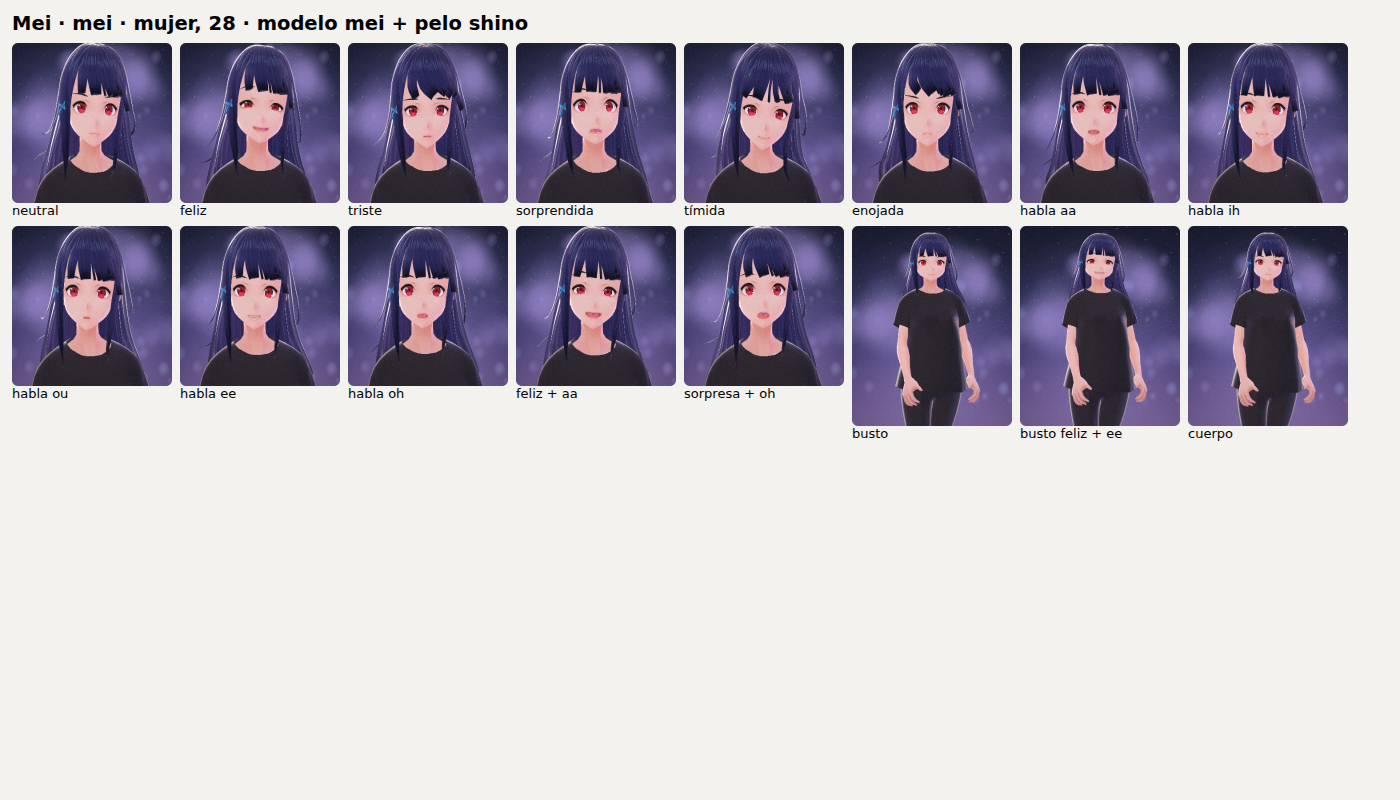
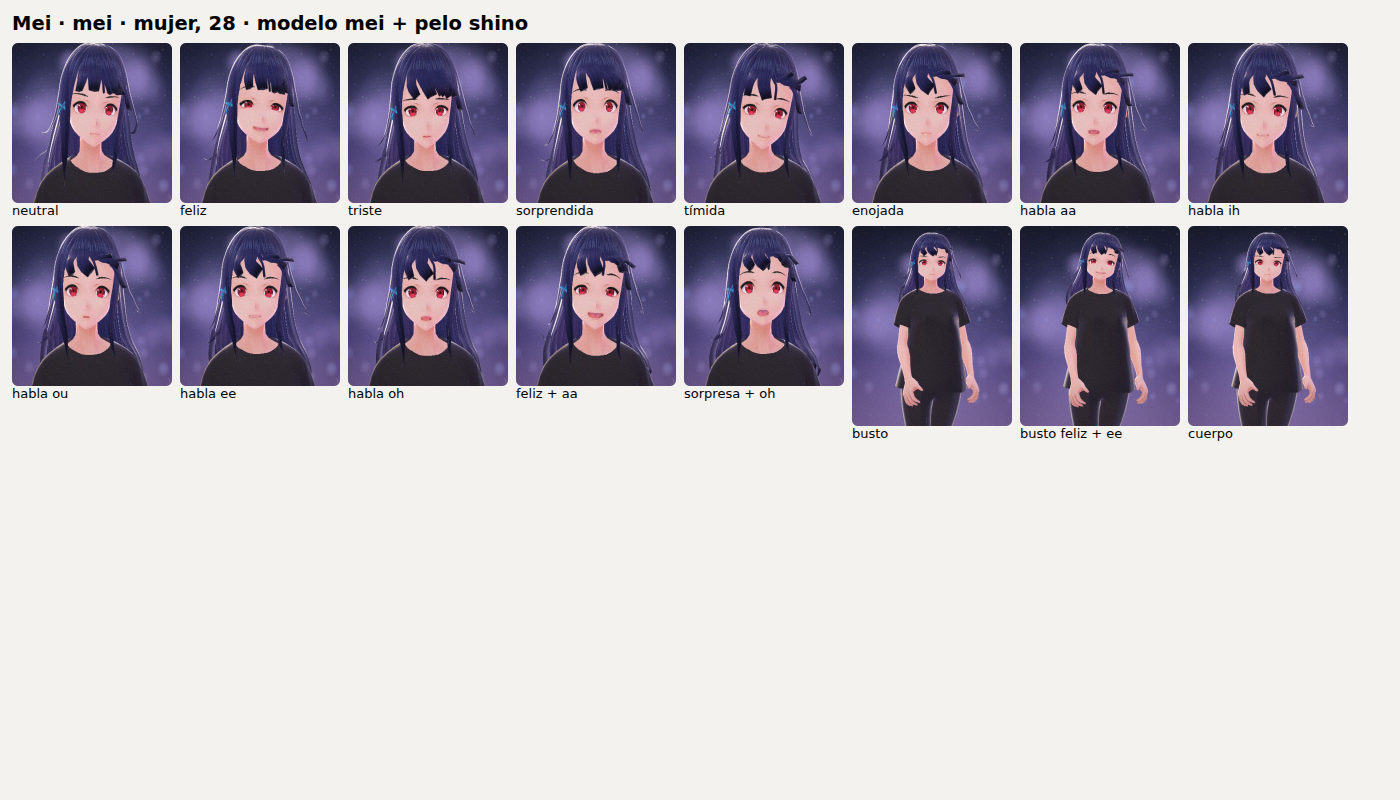
WP-5: second round of engine fixes
- Glasses on the face plane (no sliding when the head tilts); square glasses
  as rounded rectangles; headphone cups at ear height.
- Per-hairstyle fit factor for borrowed hair; QA mode resets hair physics.
- Catalog: body x hairstyle conflict rule (hairAllowed), used by the creator,
  random looks and saved-look normalization.

Claude-Session: https://claude.ai/code/session_0188cjAJLeq8GTW6oDs1W4kc

diff --git a/avatar-stage/stage.html b/avatar-stage/stage.html
@@ -605,7 +605,9 @@ function faceWidth(vrm) {
  * donante sigue a los huesos de este personaje (copiamos la pose cada fotograma)
  * y conserva su propia física.
  */
+// Algunos peinados quedan más atrás en caras ajenas (las cejas asoman por el flequillo): más margen.
 const HAIR_FIT = 1.04;
+const HAIR_FIT_BY = { vita: 1.09, fumiriya: 1.08, hair_m: 1.08, hair_f: 1.07, victoria: 1.06, noir: 1.06 };
 function attachHair(target, donor) {
   donor.scene.traverse((o) => { if (o.isMesh) o.visible = isHairMesh(o); });
   target.scene.traverse((o) => { if (o.isMesh && isHairMesh(o)) o.visible = false; });
@@ -620,7 +622,7 @@ function attachHair(target, donor) {
   const ratio = tw && dw ? tw / dw : 1;
   // un pelo prestado queda unos milímetros más atrás que el propio: un 4 % más grande cubre la
   // frente (sin cejas por delante del flequillo) y no deja huecos en la coronilla (QA, WP-5)
-  current.headScale = (ratio > 0.86 && ratio < 1.16 ? ratio : 1) * HAIR_FIT;
+  current.headScale = (ratio > 0.86 && ratio < 1.16 ? ratio : 1) * (HAIR_FIT_BY[current.look?.hair] ?? HAIR_FIT);
   current.hairPairs = pairs;
 }
 
@@ -818,26 +820,41 @@ function buildAccessories(look) {
     const round = has('glasses_round');
     const sun = has('sunglasses');
     const frame = mat(sun ? '#141218' : '#2b2733', 0.6, 0.3);
+    // montura rectangular de esquinas redondeadas (antes un anillo de 4 lados: en 3/4 se veía torcida)
+    const rrect = (w, h, rad) => {
+      const sh = new THREE.Shape();
+      sh.moveTo(-w / 2 + rad, -h / 2); sh.lineTo(w / 2 - rad, -h / 2); sh.quadraticCurveTo(w / 2, -h / 2, w / 2, -h / 2 + rad);
+      sh.lineTo(w / 2, h / 2 - rad); sh.quadraticCurveTo(w / 2, h / 2, w / 2 - rad, h / 2); sh.lineTo(-w / 2 + rad, h / 2);
+      sh.quadraticCurveTo(-w / 2, h / 2, -w / 2, h / 2 - rad); sh.lineTo(-w / 2, -h / 2 + rad); sh.quadraticCurveTo(-w / 2, -h / 2, -w / 2 + rad, -h / 2);
+      return sh;
+    };
     for (const sx of [-1, 1]) {
-      const geo = round ? new THREE.TorusGeometry(r, r * 0.09, 10, 40) : new THREE.TorusGeometry(r, r * (sun ? 0.13 : 0.1), 6, 4);
-      const ring = new THREE.Mesh(geo, frame);
-      if (!round) { ring.rotation.z = Math.PI / 4; ring.scale.set(sun ? 1.25 : 1.15, sun ? 0.86 : 0.8, 1); }
+      let ring, lens;
+      if (round) {
+        ring = new THREE.Mesh(new THREE.TorusGeometry(r, r * 0.09, 10, 40), frame);
+        lens = new THREE.Mesh(new THREE.CircleGeometry(r * 0.96, 32), null);
+      } else {
+        const w = r * 2.15, h = r * 1.55, t = r * 0.16;
+        const outer = rrect(w, h, r * 0.42);
+        outer.holes.push(rrect(w - t * 2, h - t * 2, r * 0.3));
+        ring = new THREE.Mesh(new THREE.ExtrudeGeometry(outer, { depth: r * 0.06, bevelEnabled: false, curveSegments: 6 }), frame);
+        lens = new THREE.Mesh(new THREE.ShapeGeometry(rrect(w - t * 2, h - t * 2, r * 0.3), 6), null);
+      }
+      lens.material = new THREE.MeshStandardMaterial({ color: sun ? 0x1a1820 : 0xffffff, transparent: true, opacity: sun ? 0.86 : 0.12, roughness: 0.05, metalness: sun ? 0.4 : 0 });
       ring.position.set(sx * e * 0.5, 0, 0);
-      gl.add(ring);
-      const lens = new THREE.Mesh(new THREE.CircleGeometry(r * 0.96, 32), new THREE.MeshStandardMaterial({ color: sun ? 0x1a1820 : 0xffffff, transparent: true, opacity: sun ? 0.86 : 0.12, roughness: 0.05, metalness: sun ? 0.4 : 0 }));
-      if (!round) lens.scale.set(sun ? 1.2 : 1.1, sun ? 0.82 : 0.75, 1);
       lens.position.copy(ring.position);
-      gl.add(lens);
+      gl.add(ring, lens);
     }
     const bridge = new THREE.Mesh(new THREE.CylinderGeometry(r * 0.06, r * 0.06, e * 0.2, 8), frame);
     bridge.rotation.z = Math.PI / 2; gl.add(bridge);
     overHair(gl);
-    put(gl, W(0, eyes.y + 0.003, front + e * 0.3));
+    // pegadas al plano de la cara: si flotan delante, al inclinar la cabeza se deslizan sobre los ojos
+    put(gl, W(0, eyes.y + 0.003, front + e * 0.08));
   }
   if (has('monocle')) {
     const gold = mat('#D4AF37', 0.85, 0.25);
     const r = e * 0.5;
-    const m1 = put(new THREE.Mesh(new THREE.TorusGeometry(r, r * 0.08, 10, 40), gold), W(-e * 0.5, eyes.y, front + e * 0.3));
+    const m1 = put(new THREE.Mesh(new THREE.TorusGeometry(r, r * 0.08, 10, 40), gold), W(-e * 0.5, eyes.y, front + e * 0.08));
     const lens = put(new THREE.Mesh(new THREE.CircleGeometry(r * 0.95, 32), new THREE.MeshStandardMaterial({ color: 0xffffff, transparent: true, opacity: 0.12 })), m1.position.clone());
     overHair(m1); overHair(lens);
     const chain = new THREE.Mesh(new THREE.CylinderGeometry(e * 0.012, e * 0.012, e * 1.6, 6), gold);
@@ -947,9 +964,10 @@ function buildAccessories(look) {
     // las copas van sobre las orejas (ancho de la cara), no al ancho del pelo: si no, flotan
     const r = halfW * 1.12;
     const band = new THREE.Mesh(new THREE.TorusGeometry(r, e * 0.13, 10, 48, Math.PI), mat(0x2f2b38, 0.4));
-    band.scale.set(1, (hairTop + e * 0.12 - (eyes.y - e * 0.3)) / r, 1);
-    put(band, W(0, eyes.y - e * 0.3, eyes.z - e * 0.5));
-    for (const sx of [-1, 1]) put(new THREE.Mesh(new THREE.CylinderGeometry(e * 0.5, e * 0.5, e * 0.36, 24), mat(col('headphones'), 0.2)), W(sx * (r + e * 0.05), eyes.y - e * 0.35, eyes.z - e * 0.5), [0, 0, Math.PI / 2]);
+    band.scale.set(1, (hairTop + e * 0.12 - (eyes.y - e * 0.12)) / r, 1);
+    put(band, W(0, eyes.y - e * 0.12, eyes.z - e * 0.55));
+    // a la altura de las orejas (algo por debajo de los ojos), pegadas a la cabeza
+    for (const sx of [-1, 1]) put(new THREE.Mesh(new THREE.CylinderGeometry(e * 0.5, e * 0.5, e * 0.36, 24), mat(col('headphones'), 0.2)), W(sx * r, eyes.y - e * 0.12, eyes.z - e * 0.55), [0, 0, Math.PI / 2]);
   }
   current.extraTop = extraTop;
   if (g.children.length) attachTo(head, g);
@@ -1404,7 +1422,13 @@ async function handle(msg) {
   } else if (msg.type === 'qa') {
     // QA de personajes: cara fija (sin parpadeo ni miradas) con una emoción y/o una vocal.
     current.qa = msg.off ? null : { emotion: msg.emotion || null, viseme: msg.viseme || null, raw: msg.raw || null };
-    if (current.qa) { gazeYaw = gazePitch = 0; glanceEnd = 0; nextGlance = Infinity; }
+    if (current.qa) {
+      gazeYaw = gazePitch = 0; glanceEnd = 0; nextGlance = Infinity;
+      // el pelo se coloca en la postura nueva antes de la foto (si no, un mechón puede salir volando)
+      for (let i = 0; i < 3; i++) step(1 / 60, clock.elapsedTime);
+      for (const v of [current.vrm, current.hairVrm]) { v?.springBoneManager?.setInitState(); v?.springBoneManager?.reset(); }
+      for (let i = 0; i < 90; i++) step(1 / 60, clock.elapsedTime);
+    }
     else nextGlance = clock.elapsedTime + 3;
     send({ type: 'qa-ok' });
   } else if (msg.type === 'state') {

diff --git a/src/lib/avatarStageHtml.ts b/src/lib/avatarStageHtml.ts
@@ -606,7 +606,9 @@ function faceWidth(vrm) {
  * donante sigue a los huesos de este personaje (copiamos la pose cada fotograma)
  * y conserva su propia física.
  */
+// Algunos peinados quedan más atrás en caras ajenas (las cejas asoman por el flequillo): más margen.
 const HAIR_FIT = 1.04;
+const HAIR_FIT_BY = { vita: 1.09, fumiriya: 1.08, hair_m: 1.08, hair_f: 1.07, victoria: 1.06, noir: 1.06 };
 function attachHair(target, donor) {
   donor.scene.traverse((o) => { if (o.isMesh) o.visible = isHairMesh(o); });
   target.scene.traverse((o) => { if (o.isMesh && isHairMesh(o)) o.visible = false; });
@@ -621,7 +623,7 @@ function attachHair(target, donor) {
   const ratio = tw && dw ? tw / dw : 1;
   // un pelo prestado queda unos milímetros más atrás que el propio: un 4 % más grande cubre la
   // frente (sin cejas por delante del flequillo) y no deja huecos en la coronilla (QA, WP-5)
-  current.headScale = (ratio > 0.86 && ratio < 1.16 ? ratio : 1) * HAIR_FIT;
+  current.headScale = (ratio > 0.86 && ratio < 1.16 ? ratio : 1) * (HAIR_FIT_BY[current.look?.hair] ?? HAIR_FIT);
   current.hairPairs = pairs;
 }
 
@@ -819,26 +821,41 @@ function buildAccessories(look) {
     const round = has('glasses_round');
     const sun = has('sunglasses');
     const frame = mat(sun ? '#141218' : '#2b2733', 0.6, 0.3);
+    // montura rectangular de esquinas redondeadas (antes un anillo de 4 lados: en 3/4 se veía torcida)
+    const rrect = (w, h, rad) => {
+      const sh = new THREE.Shape();
+      sh.moveTo(-w / 2 + rad, -h / 2); sh.lineTo(w / 2 - rad, -h / 2); sh.quadraticCurveTo(w / 2, -h / 2, w / 2, -h / 2 + rad);
+      sh.lineTo(w / 2, h / 2 - rad); sh.quadraticCurveTo(w / 2, h / 2, w / 2 - rad, h / 2); sh.lineTo(-w / 2 + rad, h / 2);
+      sh.quadraticCurveTo(-w / 2, h / 2, -w / 2, h / 2 - rad); sh.lineTo(-w / 2, -h / 2 + rad); sh.quadraticCurveTo(-w / 2, -h / 2, -w / 2 + rad, -h / 2);
+      return sh;
+    };
     for (const sx of [-1, 1]) {
-      const geo = round ? new THREE.TorusGeometry(r, r * 0.09, 10, 40) : new THREE.TorusGeometry(r, r * (sun ? 0.13 : 0.1), 6, 4);
-      const ring = new THREE.Mesh(geo, frame);
-      if (!round) { ring.rotation.z = Math.PI / 4; ring.scale.set(sun ? 1.25 : 1.15, sun ? 0.86 : 0.8, 1); }
+      let ring, lens;
+      if (round) {
+        ring = new THREE.Mesh(new THREE.TorusGeometry(r, r * 0.09, 10, 40), frame);
+        lens = new THREE.Mesh(new THREE.CircleGeometry(r * 0.96, 32), null);
+      } else {
+        const w = r * 2.15, h = r * 1.55, t = r * 0.16;
+        const outer = rrect(w, h, r * 0.42);
+        outer.holes.push(rrect(w - t * 2, h - t * 2, r * 0.3));
+        ring = new THREE.Mesh(new THREE.ExtrudeGeometry(outer, { depth: r * 0.06, bevelEnabled: false, curveSegments: 6 }), frame);
+        lens = new THREE.Mesh(new THREE.ShapeGeometry(rrect(w - t * 2, h - t * 2, r * 0.3), 6), null);
+      }
+      lens.material = new THREE.MeshStandardMaterial({ color: sun ? 0x1a1820 : 0xffffff, transparent: true, opacity: sun ? 0.86 : 0.12, roughness: 0.05, metalness: sun ? 0.4 : 0 });
       ring.position.set(sx * e * 0.5, 0, 0);
-      gl.add(ring);
-      const lens = new THREE.Mesh(new THREE.CircleGeometry(r * 0.96, 32), new THREE.MeshStandardMaterial({ color: sun ? 0x1a1820 : 0xffffff, transparent: true, opacity: sun ? 0.86 : 0.12, roughness: 0.05, metalness: sun ? 0.4 : 0 }));
-      if (!round) lens.scale.set(sun ? 1.2 : 1.1, sun ? 0.82 : 0.75, 1);
       lens.position.copy(ring.position);
-      gl.add(lens);
+      gl.add(ring, lens);
     }
     const bridge = new THREE.Mesh(new THREE.CylinderGeometry(r * 0.06, r * 0.06, e * 0.2, 8), frame);
     bridge.rotation.z = Math.PI / 2; gl.add(bridge);
     overHair(gl);
-    put(gl, W(0, eyes.y + 0.003, front + e * 0.3));
+    // pegadas al plano de la cara: si flotan delante, al inclinar la cabeza se deslizan sobre los ojos
+    put(gl, W(0, eyes.y + 0.003, front + e * 0.08));
   }
   if (has('monocle')) {
     const gold = mat('#D4AF37', 0.85, 0.25);
     const r = e * 0.5;
-    const m1 = put(new THREE.Mesh(new THREE.TorusGeometry(r, r * 0.08, 10, 40), gold), W(-e * 0.5, eyes.y, front + e * 0.3));
+    const m1 = put(new THREE.Mesh(new THREE.TorusGeometry(r, r * 0.08, 10, 40), gold), W(-e * 0.5, eyes.y, front + e * 0.08));
     const lens = put(new THREE.Mesh(new THREE.CircleGeometry(r * 0.95, 32), new THREE.MeshStandardMaterial({ color: 0xffffff, transparent: true, opacity: 0.12 })), m1.position.clone());
     overHair(m1); overHair(lens);
     const chain = new THREE.Mesh(new THREE.CylinderGeometry(e * 0.012, e * 0.012, e * 1.6, 6), gold);
@@ -948,9 +965,10 @@ function buildAccessories(look) {
     // las copas van sobre las orejas (ancho de la cara), no al ancho del pelo: si no, flotan
     const r = halfW * 1.12;
     const band = new THREE.Mesh(new THREE.TorusGeometry(r, e * 0.13, 10, 48, Math.PI), mat(0x2f2b38, 0.4));
-    band.scale.set(1, (hairTop + e * 0.12 - (eyes.y - e * 0.3)) / r, 1);
-    put(band, W(0, eyes.y - e * 0.3, eyes.z - e * 0.5));
-    for (const sx of [-1, 1]) put(new THREE.Mesh(new THREE.CylinderGeometry(e * 0.5, e * 0.5, e * 0.36, 24), mat(col('headphones'), 0.2)), W(sx * (r + e * 0.05), eyes.y - e * 0.35, eyes.z - e * 0.5), [0, 0, Math.PI / 2]);
+    band.scale.set(1, (hairTop + e * 0.12 - (eyes.y - e * 0.12)) / r, 1);
+    put(band, W(0, eyes.y - e * 0.12, eyes.z - e * 0.55));
+    // a la altura de las orejas (algo por debajo de los ojos), pegadas a la cabeza
+    for (const sx of [-1, 1]) put(new THREE.Mesh(new THREE.CylinderGeometry(e * 0.5, e * 0.5, e * 0.36, 24), mat(col('headphones'), 0.2)), W(sx * r, eyes.y - e * 0.12, eyes.z - e * 0.55), [0, 0, Math.PI / 2]);
   }
   current.extraTop = extraTop;
   if (g.children.length) attachTo(head, g);
@@ -1405,7 +1423,13 @@ async function handle(msg) {
   } else if (msg.type === 'qa') {
     // QA de personajes: cara fija (sin parpadeo ni miradas) con una emoción y/o una vocal.
     current.qa = msg.off ? null : { emotion: msg.emotion || null, viseme: msg.viseme || null, raw: msg.raw || null };
-    if (current.qa) { gazeYaw = gazePitch = 0; glanceEnd = 0; nextGlance = Infinity; }
+    if (current.qa) {
+      gazeYaw = gazePitch = 0; glanceEnd = 0; nextGlance = Infinity;
+      // el pelo se coloca en la postura nueva antes de la foto (si no, un mechón puede salir volando)
+      for (let i = 0; i < 3; i++) step(1 / 60, clock.elapsedTime);
+      for (const v of [current.vrm, current.hairVrm]) { v?.springBoneManager?.setInitState(); v?.springBoneManager?.reset(); }
+      for (let i = 0; i < 90; i++) step(1 / 60, clock.elapsedTime);
+    }
     else nextGlance = clock.elapsedTime + 3;
     send({ type: 'qa-ok' });
   } else if (msg.type === 'state') {

diff --git a/src/lib/character/catalog.ts b/src/lib/character/catalog.ts
@@ -337,10 +337,23 @@ export function toggleAccessory(current: string[], id: string): string[] {
   return [...current.filter((a) => ACCESSORIES.find((x) => x.id === a)?.slot !== slot), id];
 }
 
-/** ¿Se puede usar el peinado `hair` con el modelo `model`? */
+/** ¿Admite este modelo peinados de otros modelos? (los VRM 1 no) */
 export function hairCompatible(model: string): boolean {
   const m = modelById(model);
   return !!m && !m.vrm1;
+}
+
+/**
+ * Peinados prestados que no encajan en un cuerpo (QA de personajes, WP-5): cejas que asoman
+ * por el flequillo, huecos en el cuero cabelludo o marcas de la cara por encima del pelo.
+ * Se rellena con la revisión de la matriz cuerpo × peinado (scripts/qa-characters.mjs).
+ */
+export const BODY_HAIR_CONFLICTS: Record<string, string[]> = {};
+
+/** ¿Se puede usar el peinado `hair` en el cuerpo `model`? */
+export function hairAllowed(model: string, hair: string): boolean {
+  if (hair === model) return true;
+  return hairCompatible(model) && !(BODY_HAIR_CONFLICTS[model] ?? []).includes(hair);
 }
 
 // ------------------------------------------------------------------ aspecto por defecto
@@ -494,7 +507,7 @@ export function normalizeLook(raw: unknown, gender: string = 'female'): Characte
   const needs = modelById(model)?.needsHair;
   const savedHair = typeof r.hair === 'string' && HAIRSTYLES.some((h) => h.id === r.hair) ? r.hair : retired?.hair;
   // El peinado propio del modelo se guarda como null.
-  const hair = savedHair && savedHair !== model && hairCompatible(model) ? savedHair : (needs ?? null);
+  const hair = savedHair && savedHair !== model && hairAllowed(model, savedHair) ? savedHair : (needs ?? null);
   const color = (v: unknown) => (isHex(v) ? v : null);
   const v = (r.voice ?? {}) as Partial<VoiceSettings>;
   return {
@@ -545,7 +558,8 @@ const chance = (p: number) => Math.random() < p;
 export function randomLook(gender: 'female' | 'male' | 'other', voice?: VoiceSettings): CharacterLook {
   const pool = MODELS.filter((m) => gender === 'other' || m.gender === gender);
   const model = rnd(pool);
-  const hair = model.needsHair ? rnd(HAIRSTYLES).id : !model.vrm1 && chance(0.4) ? rnd(HAIRSTYLES).id : null;
+  const hairs = HAIRSTYLES.filter((h) => h.id !== model.id && hairAllowed(model.id, h.id));
+  const hair = model.needsHair ? rnd(hairs).id : !model.vrm1 && chance(0.4) && hairs.length ? rnd(hairs).id : null;
   const accessories: string[] = [];
   const fits = ACCESSORIES.filter((a) => accessoryAllowed({ model: model.id, hair }, a.id));
   if (chance(0.45)) accessories.push(rnd(fits).id);

diff --git a/src/app/avatar/create.tsx b/src/app/avatar/create.tsx
@@ -27,6 +27,7 @@ import {
   EYE_COLORS,
   EYESHADOWS,
   HAIR_COLORS,
+  hairAllowed,
   hairCompatible,
   HAIRSTYLES,
   isCustomModel,
@@ -451,7 +452,7 @@ export default function CreateCharacter() {
             {!needsHair ? (
               <OptionTile width={tile} label={t('create.hairOwn')} image={isCustomModel(look.model) ? undefined : modelPortrait(look.model)} selected={!look.hair} onPress={() => patch({ hair: null })} />
             ) : null}
-            {HAIRSTYLES.filter((h) => h.id !== look.model).map((h) => (
+            {HAIRSTYLES.filter((h) => h.id !== look.model && hairAllowed(look.model, h.id)).map((h) => (
               <OptionTile key={h.id} width={tile} label={h.label[language]} image={hairPortrait(h.id)} selected={look.hair === h.id} disabled={!canHair} onPress={() => patch({ hair: h.id })} />
             ))}
           </View>
